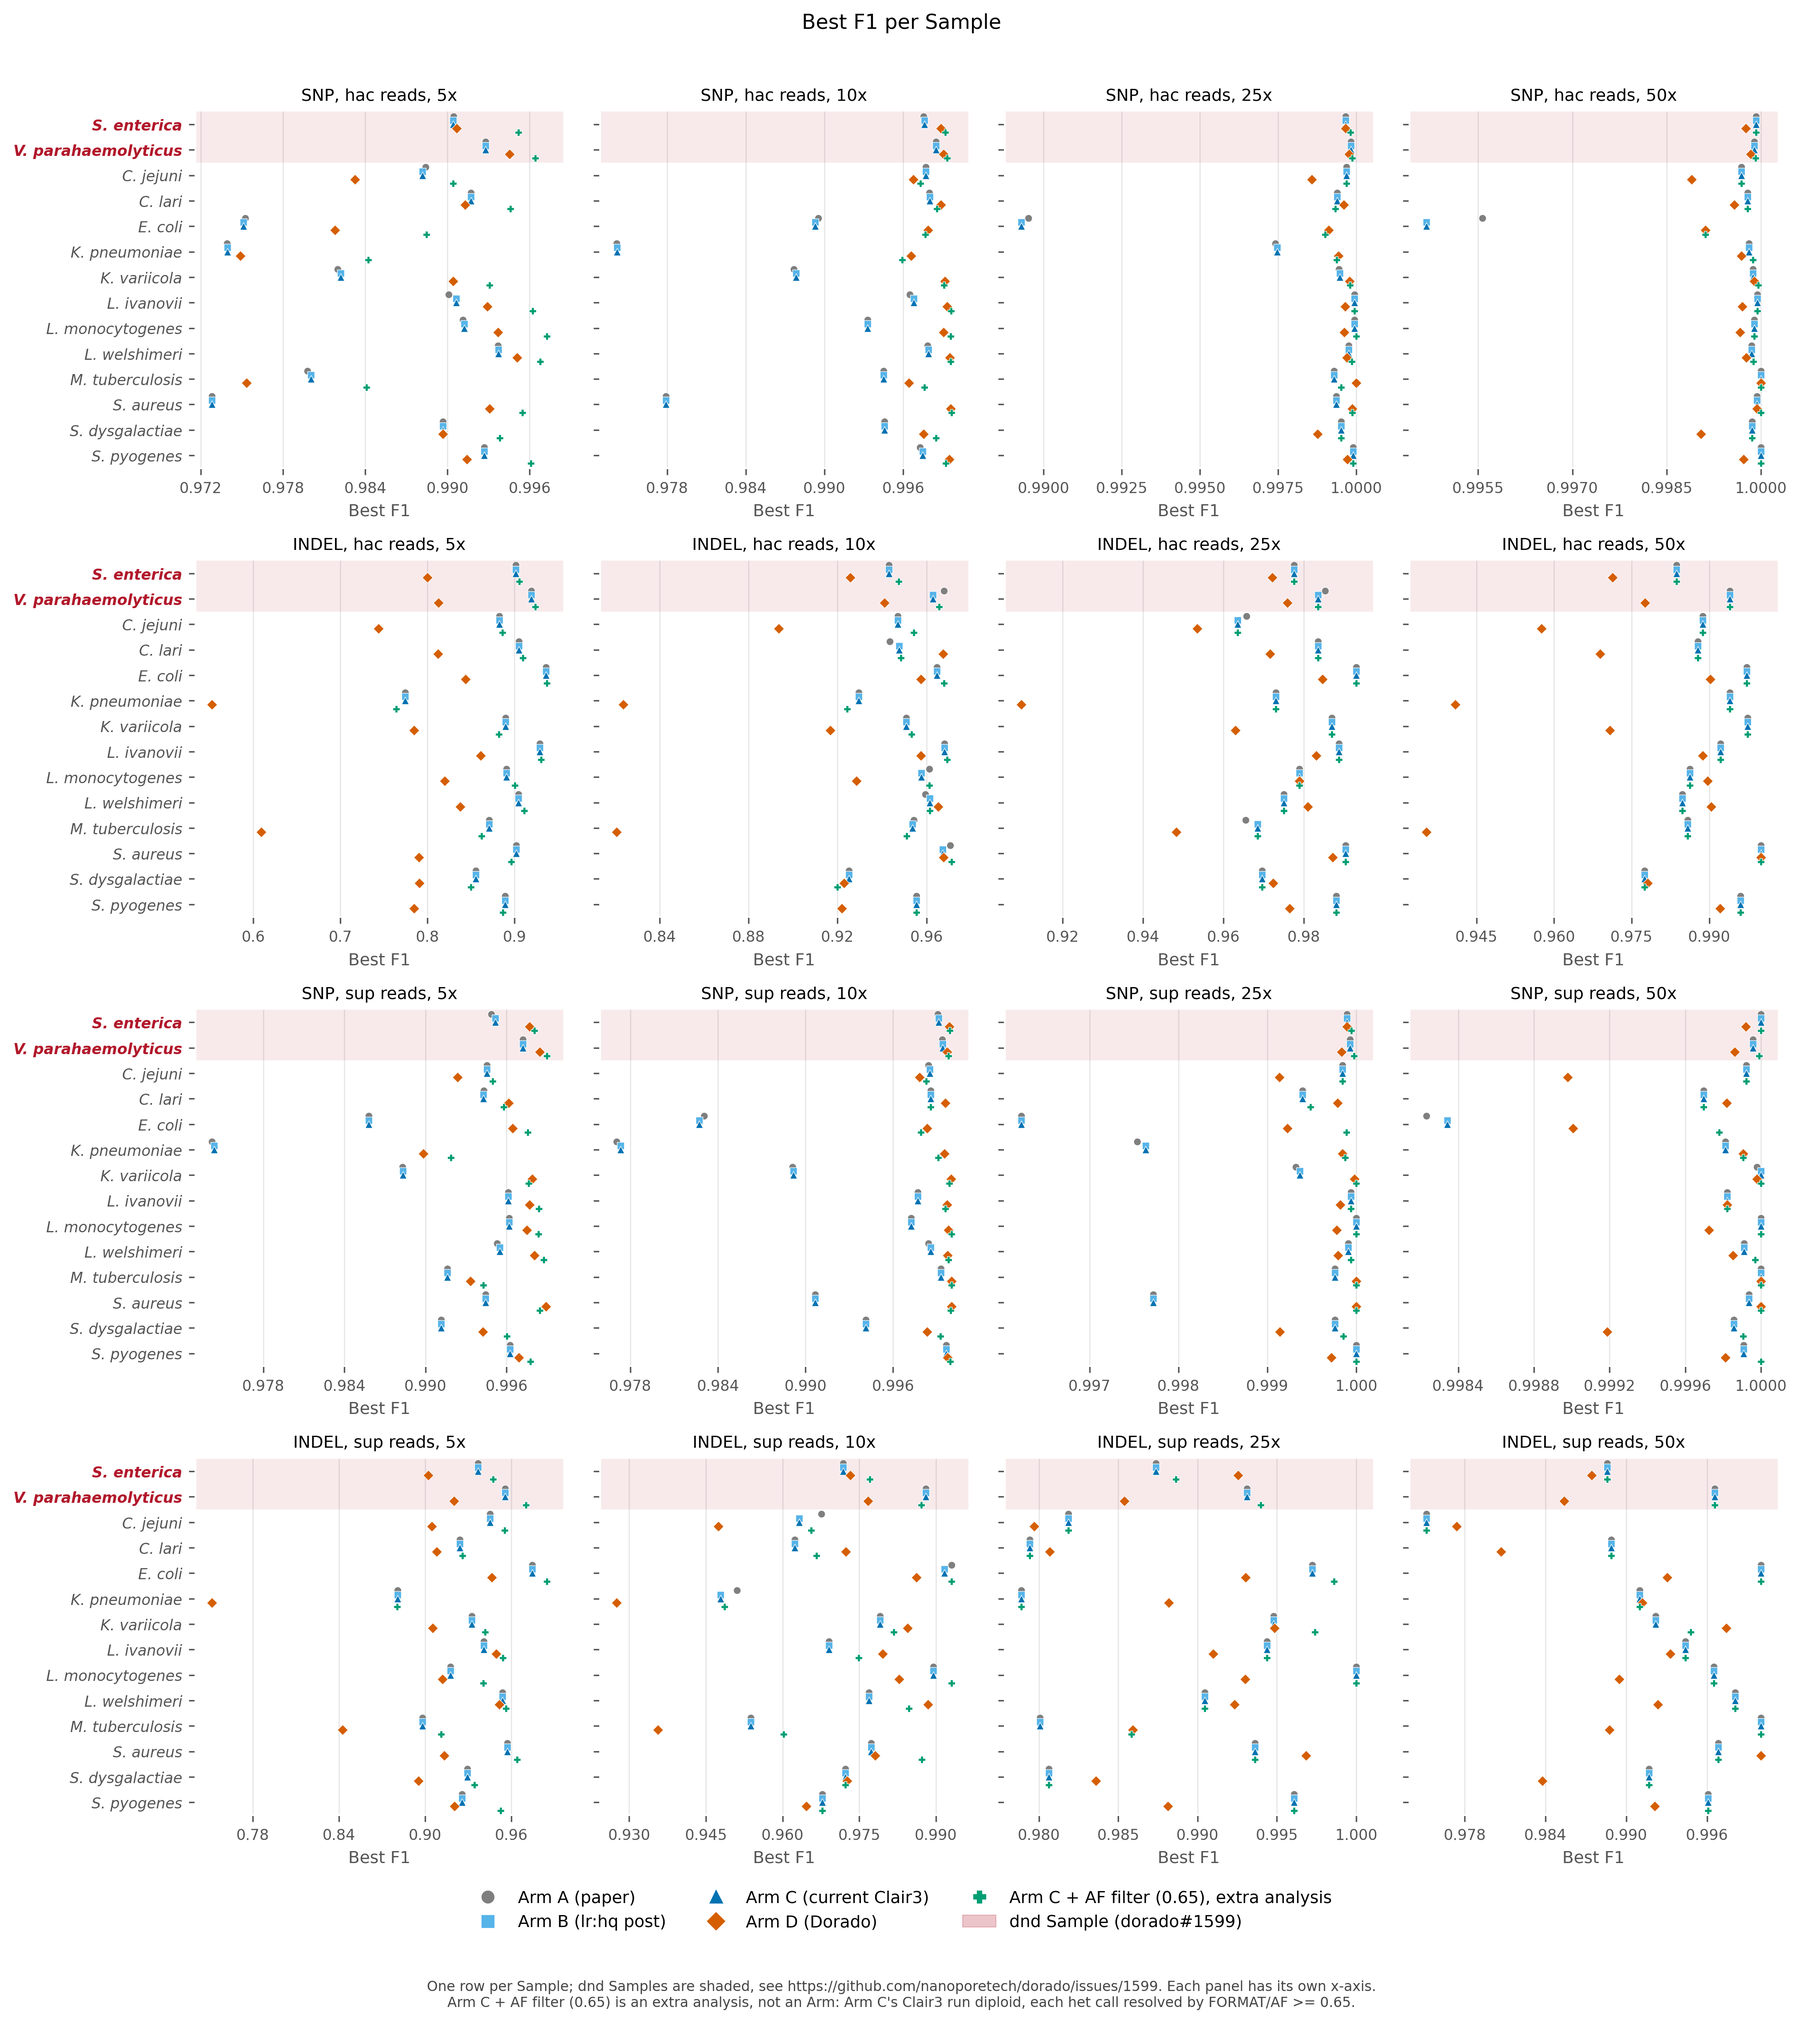
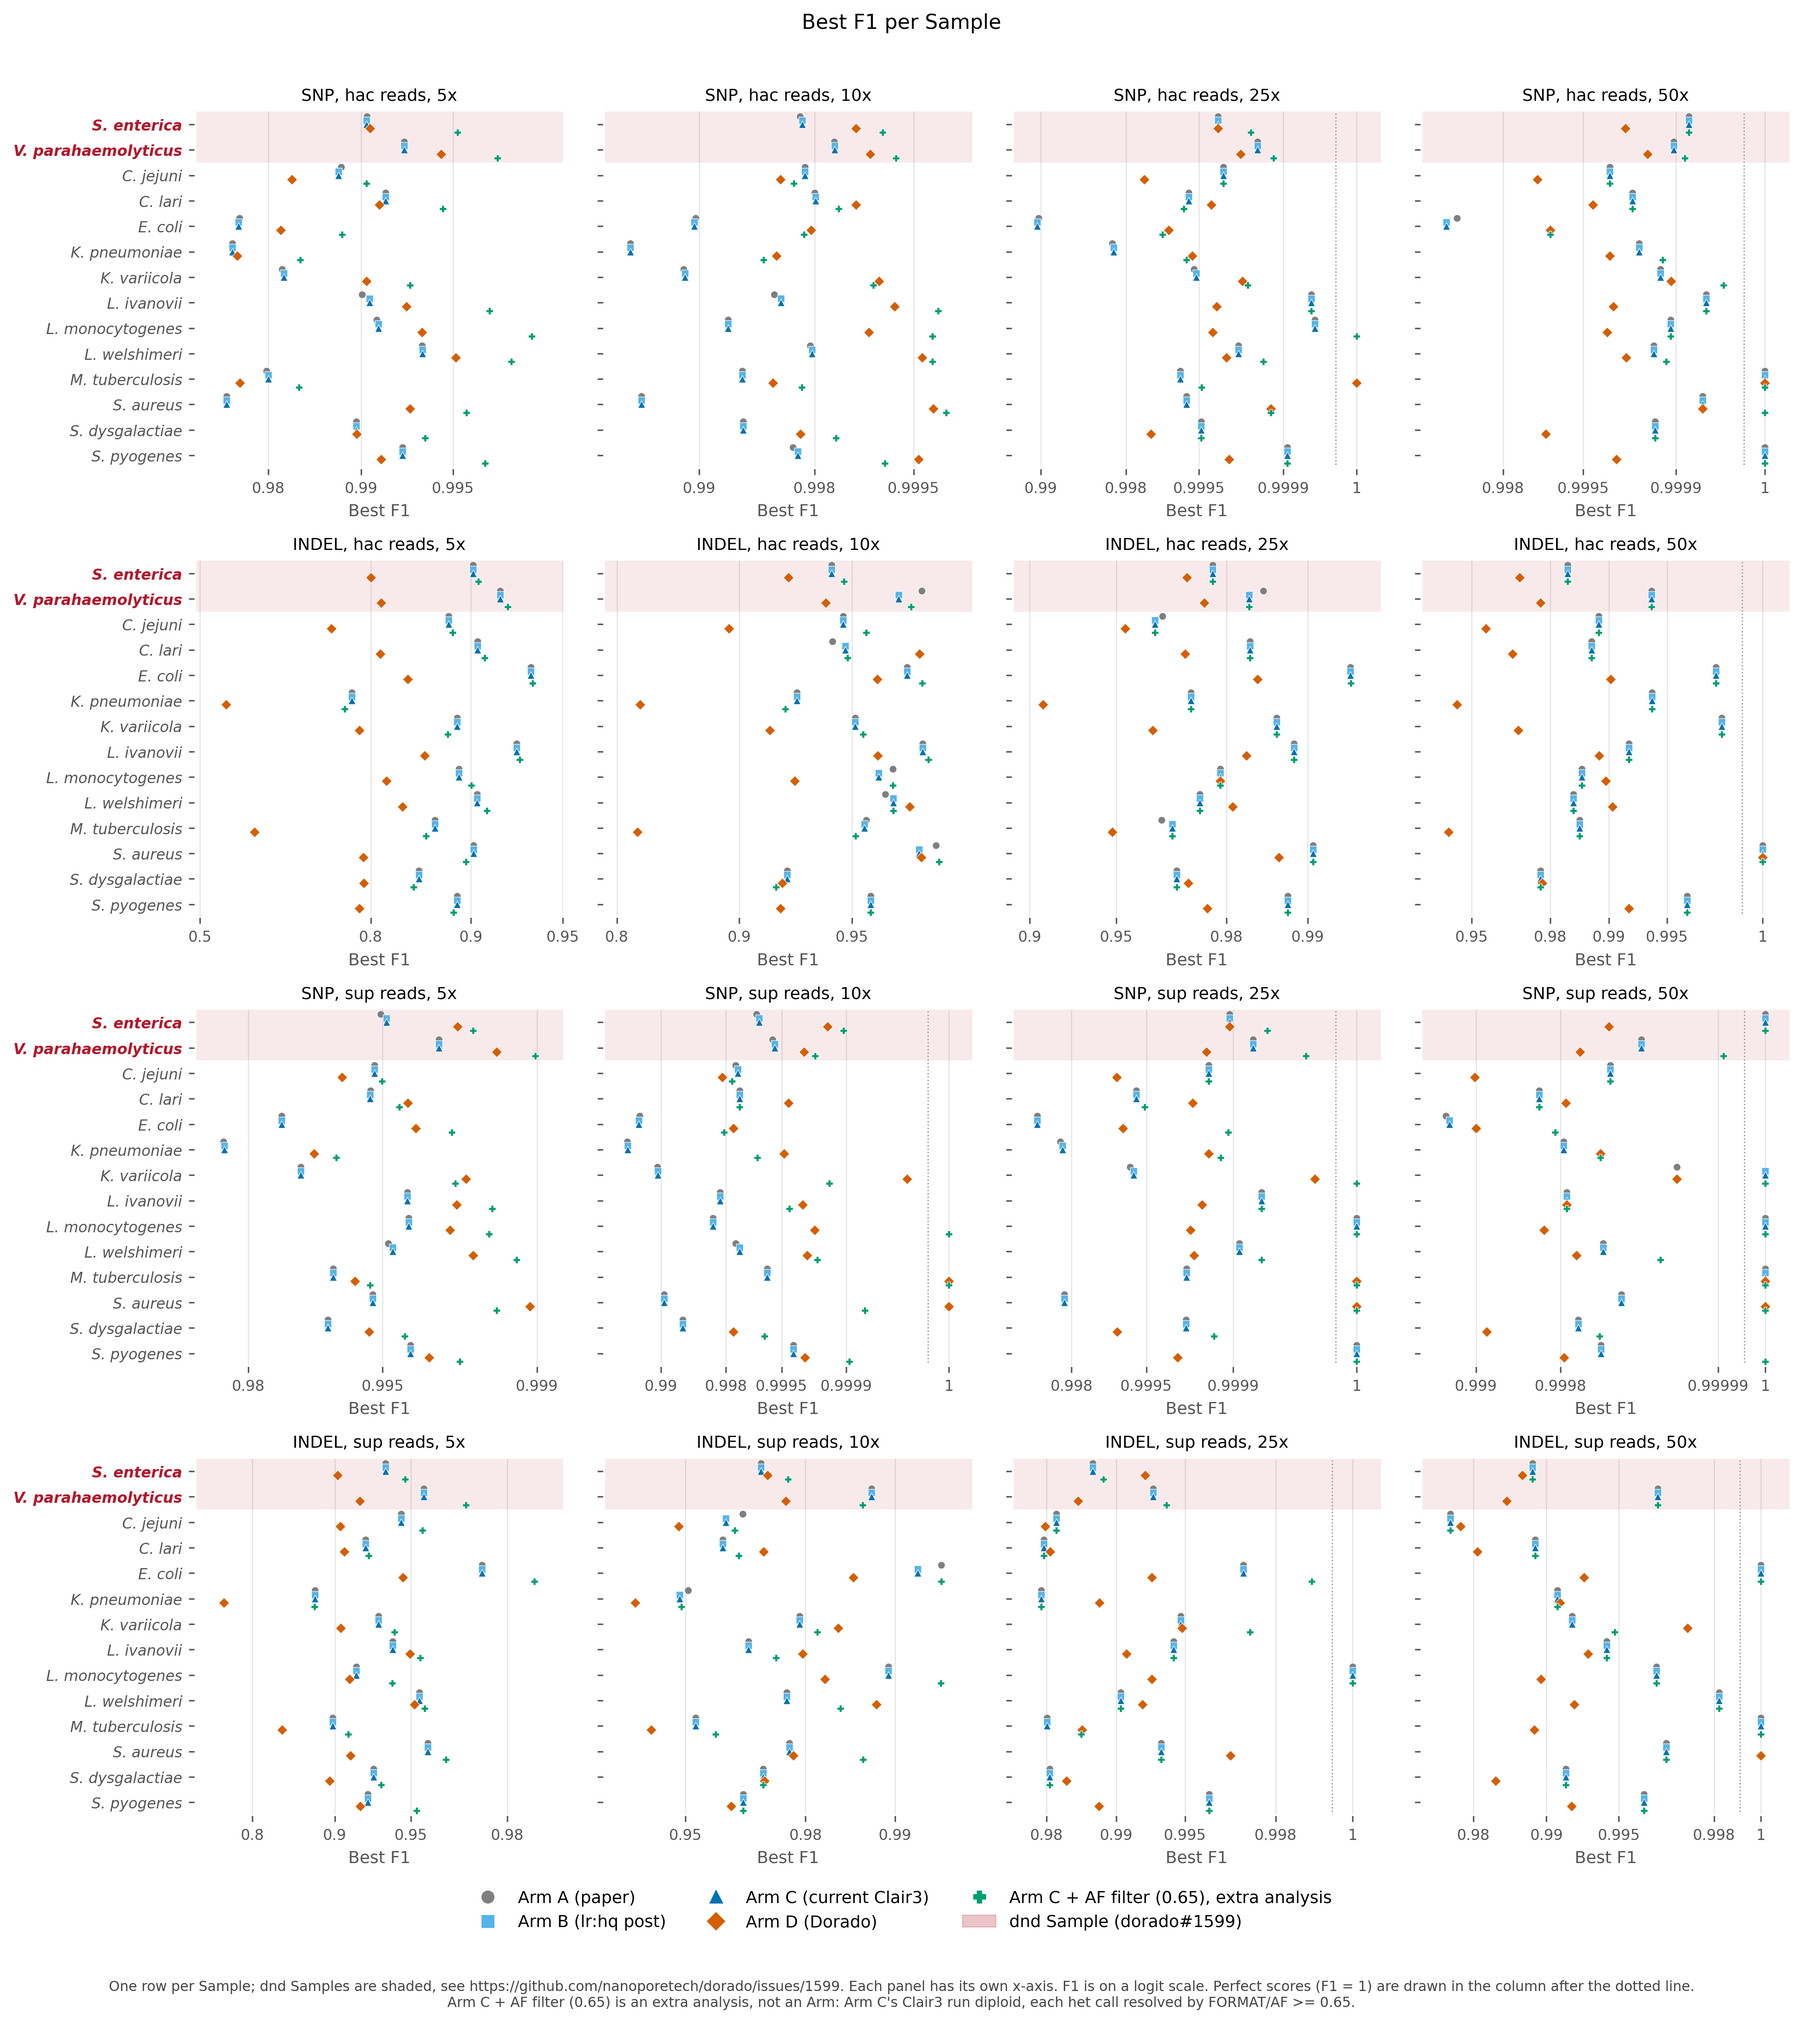
Use the logit-scale figures in the dorado polish draft
Claude-Session: https://claude.ai/code/session_01WKBa3kL4ttu6J7wjrDe6QN

diff --git a/content/post/dorado-polish-variant-calling/index.md b/content/post/dorado-polish-variant-calling/index.md
@@ -110,7 +110,7 @@ All numbers are medians over the 14 samples unless stated otherwise.
 
 ### SNPs: Dorado is better at low depth
 
-{{< figure src="best-f1-depth.png" alt="Best F1 against depth for SNPs and indels, hac and sup reads, for each setup." caption="**Figure 1:** Median F1 against depth. Solid lines are Best F1, dashed lines are the default (PASS-only) score. The green line is Clair3 with the allele frequency filter, described below." >}}
+{{< figure src="best-f1-depth.png" alt="Best F1 against depth for SNPs and indels, hac and sup reads, for each setup." caption="**Figure 1:** Median F1 against depth, on a logit scale to spread out the differences close to 1. Solid lines are Best F1, dashed lines are the default (PASS-only) score. The green line is Clair3 with the allele frequency filter, described below." >}}
 
 At 5x and 10x, Dorado calls SNPs better than Clair3 (Figure 1, top row):
 
@@ -196,7 +196,7 @@ costs much less (hac 5x: 0.986 vs 0.991).
 
 ### Per sample
 
-{{< figure src="per-sample-best-f1.png" alt="Best F1 per sample at each depth for each setup, with dnd samples shaded." caption="**Figure 3:** Best F1 for every sample, at every depth. The two shaded samples carry *dnd* phosphorothioate systems." >}}
+{{< figure src="per-sample-best-f1.png" alt="Best F1 per sample at each depth for each setup, with dnd samples shaded." caption="**Figure 3:** Best F1 for every sample, at every depth, on a logit scale. Perfect scores (F1 = 1) are drawn in their own column after the dotted line. The two shaded samples carry *dnd* phosphorothioate systems." >}}
 
 The pattern holds across samples (Figure 3). At hac 10x, Dorado beats the paper's Clair3
 settings on SNPs for 13 of the 14 samples, and Clair3 beats Dorado on indels for all 14 at hac
